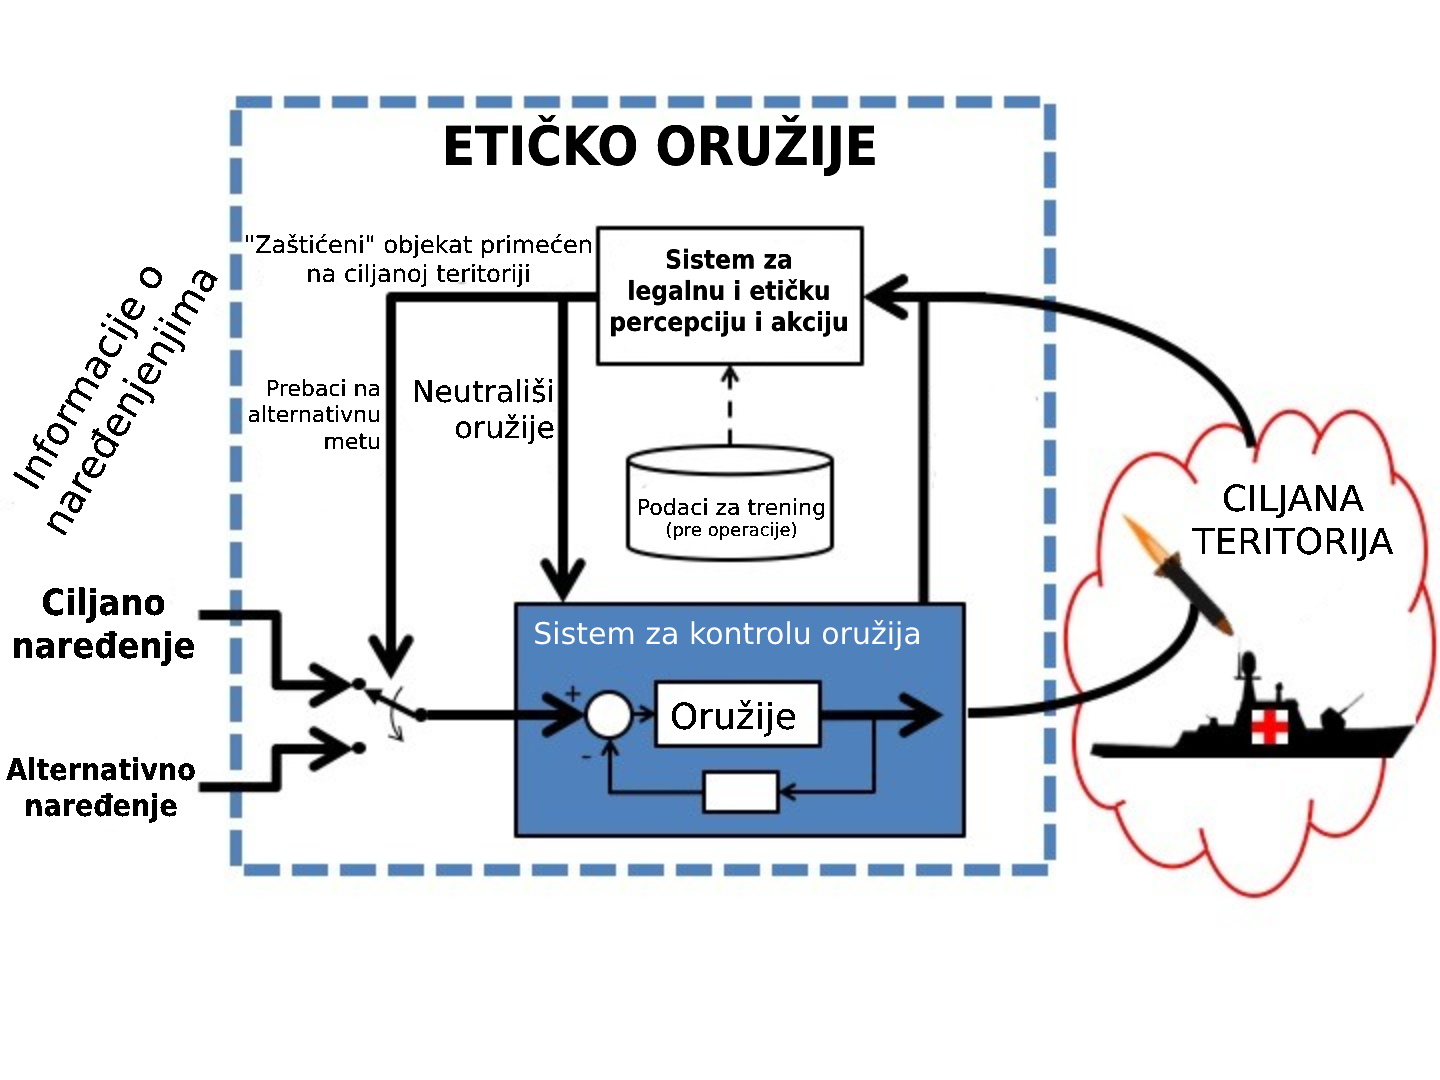
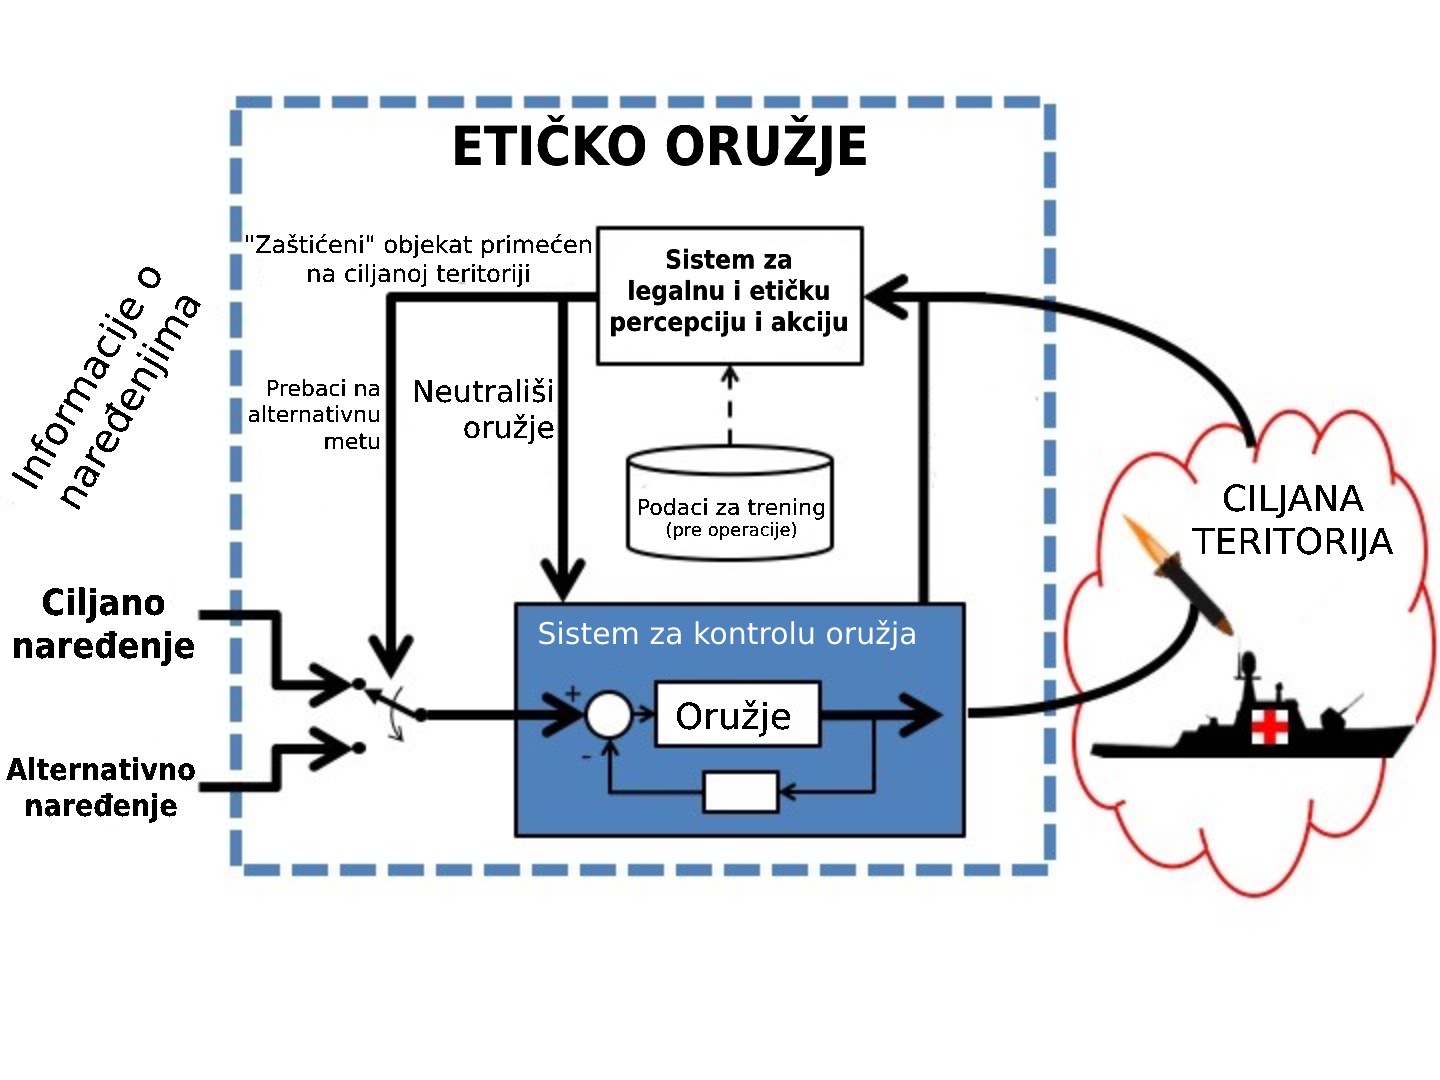
Change: spelling errors
Removed some spelling errors

diff --git a/sve_zajedno.tex b/sve_zajedno.tex
@@ -265,13 +265,13 @@ Problem pretprilagođenosti podrazumeva nepredvidivo ponašanje algoritama koji 
 Za razliku od ljudi, koji su fleksibilni i umeju da se adaptiraju, ovi sistemi sadrže samo nekoliko scenarija na koje znaju da reaguju. Način rešavanja ovog problema je isti kao i kod svih drugih sistema koji uče, a to je adekvatan odabir ulaznih podataka i algoritama za učenje, kao i temeljno testiranje svih potencijalno problematičnih situacija.
 \subsection{Pozitivne strane vojne veštačke inteligencije}
 \label{subsec: Pozitivne strane vojne veštačke inteligencije}
-Iako kvalitetna veštačka inteligencija može da doprinese lakom osvajanju bitaka, to nije nužno pozitivna strana za manje razvijene države koje bi joj se potencijalno suprotstavljale. Ključan deo pozitivne strane pretstavlja koncept \textbf{etičkog oružija}. Etičko oružje je oružje koje je pametno programirano sa svim pravilima i zakonima ratovanja kao što su su pravila vođenja borbe i IHL. Ovakvi sistemi su zasnovani na tehnologijama maksimalno i minimalno pravične veštačke inteligencije (eng. \textit{maximally and minimally just artificial intelligence}), odnosno \textbf{MaxAI} i \textbf{MinAI}.
+Iako kvalitetna veštačka inteligencija može da doprinese lakom osvajanju bitaka, to nije nužno pozitivna strana za manje razvijene države koje bi joj se potencijalno suprotstavljale. Ključan deo pozitivne strane pretstavlja koncept \textbf{etičkog oružja}. Etičko oružje je oružje koje je pametno programirano sa svim pravilima i zakonima ratovanja kao što su su pravila vođenja borbe i IHL. Ovakvi sistemi su zasnovani na tehnologijama maksimalno i minimalno pravične veštačke inteligencije (eng. \textit{maximally and minimally just artificial intelligence}), odnosno \textbf{MaxAI} i \textbf{MinAI}.
 
 \begin{figure}[h!]
 \begin{center}
 \includegraphics[scale=0.18]{minAi_new.jpg}
 \end{center}
-\caption{Dijagram rada etičkog oružija sa alternativnim naređenjem} 
+\caption{Dijagram rada etičkog oružja sa alternativnim naređenjem} 
 \label{fig:minAI}
 \end{figure} 
 
@@ -281,7 +281,7 @@ Za razliku od proizvoljnih inteligentnih sistema, MaxAI i MinAI ne ispunjavaju `
 
 U slučaju MaxAI, ukoliko se primeti da naređenja ne zadovoljavaju zadate zakone, algoritam se trudi da što preciznije prati naređenja uz minimalne izmene. Izmene mogu obuhvatati smanjenje primenjene sile do minimalno neophodne ili odbijanje napadanja zaštićenih objekata poput objekata crvenog krsta, bolnica i slično. MaxAI postoji pretežno u teoriji baš zbog toga što je izuzetno teško uzeti u obzir sve apstraktne parametre i posledice naređenja i ublažiti ih na minimalno neophodne.
 
-MinAI obično podrazumeva mnogo jednostavniji sistem sa limitiranim opcijama i ishodima, što ga čini mogućim za implemenitranje, za razliku od MaxAI. Naime, MinAI obično podrazumeva zadavanje naređenja i ukoliko naređenje krši neke zadate zakone ono se jednostavno ne izvršava. U nekim implementacijama moguće je zadavanje i sekundarnog naređenja (eng. \textit{failsafe}) na čiju se proveru i izvršavanje prelazi ukoliko prvo naređenje nije izvršivo. Dijagram rada ovakvog oružija možemo videti na slici \ref{fig:minAI}. Sistem detektuje da se na teritoriji primarne mete nalazi objekat crvenog krsta i zatim automatski abortira misiju i prelazi na alternativnu metu. Ukoliko se na alternativnoj meti ne nalazi neki od zaštićenih objekata, oružije izvršava naređenje, u suprotnom abortira u potpunosti.
+MinAI obično podrazumeva mnogo jednostavniji sistem sa limitiranim opcijama i ishodima, što ga čini mogućim za implemenitranje, za razliku od MaxAI. Naime, MinAI obično podrazumeva zadavanje naređenja i ukoliko naređenje krši neke zadate zakone ono se jednostavno ne izvršava. U nekim implementacijama moguće je zadavanje i sekundarnog naređenja (eng. \textit{failsafe}) na čiju se proveru i izvršavanje prelazi ukoliko prvo naređenje nije izvršivo. Dijagram rada ovakvog oružja možemo videti na slici \ref{fig:minAI}. Sistem detektuje da se na teritoriji primarne mete nalazi objekat crvenog krsta i zatim automatski abortira misiju i prelazi na alternativnu metu. Ukoliko se na alternativnoj meti ne nalazi neki od zaštićenih objekata, oružje izvršava naređenje, u suprotnom abortira u potpunosti.
 
 
 \section{Zaključak}
